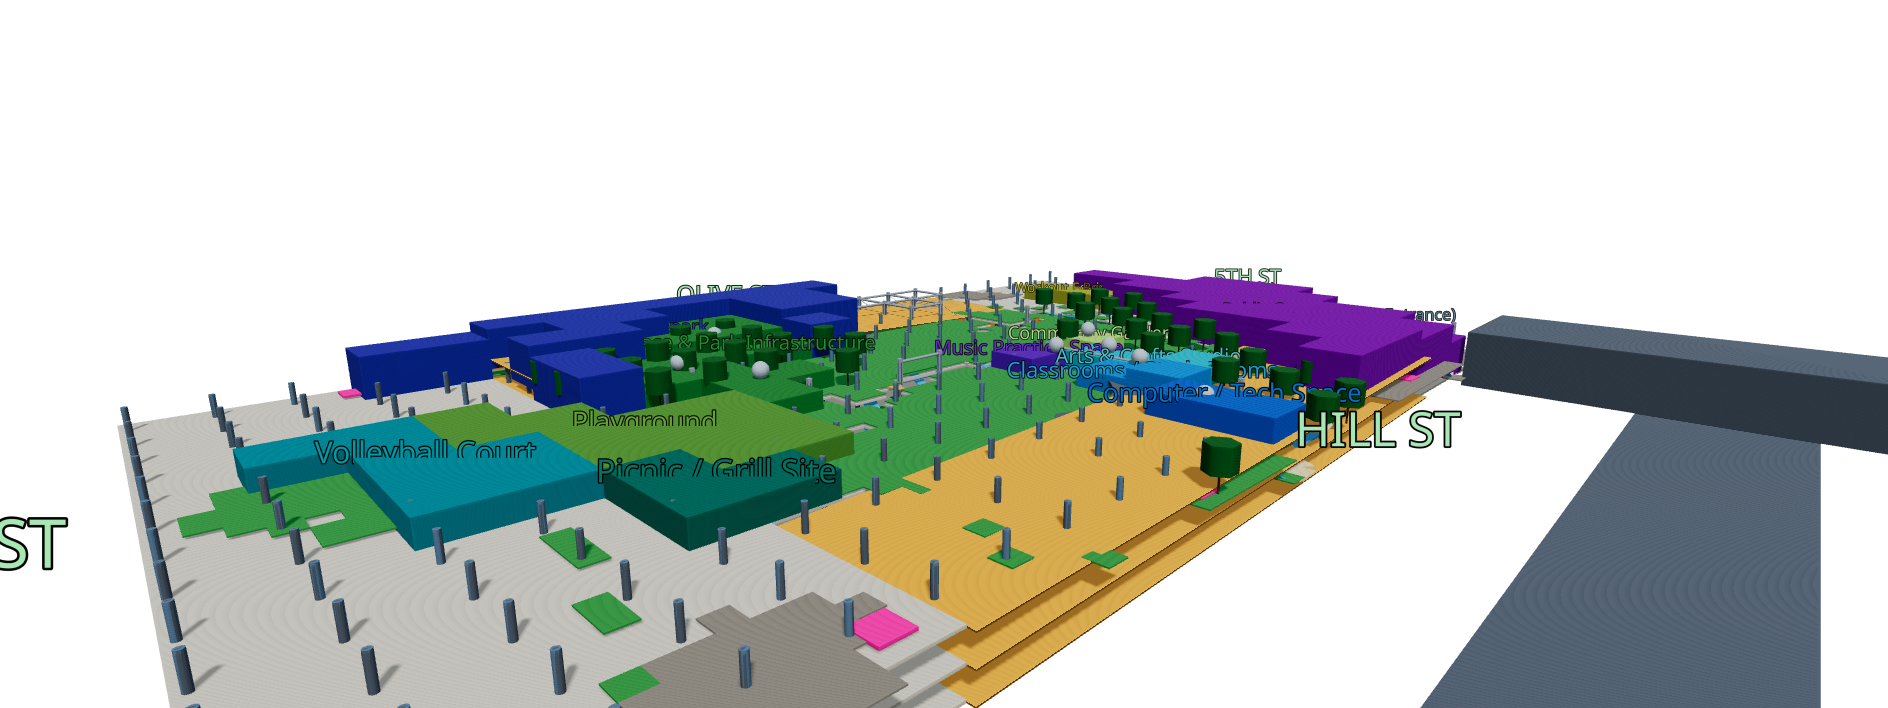
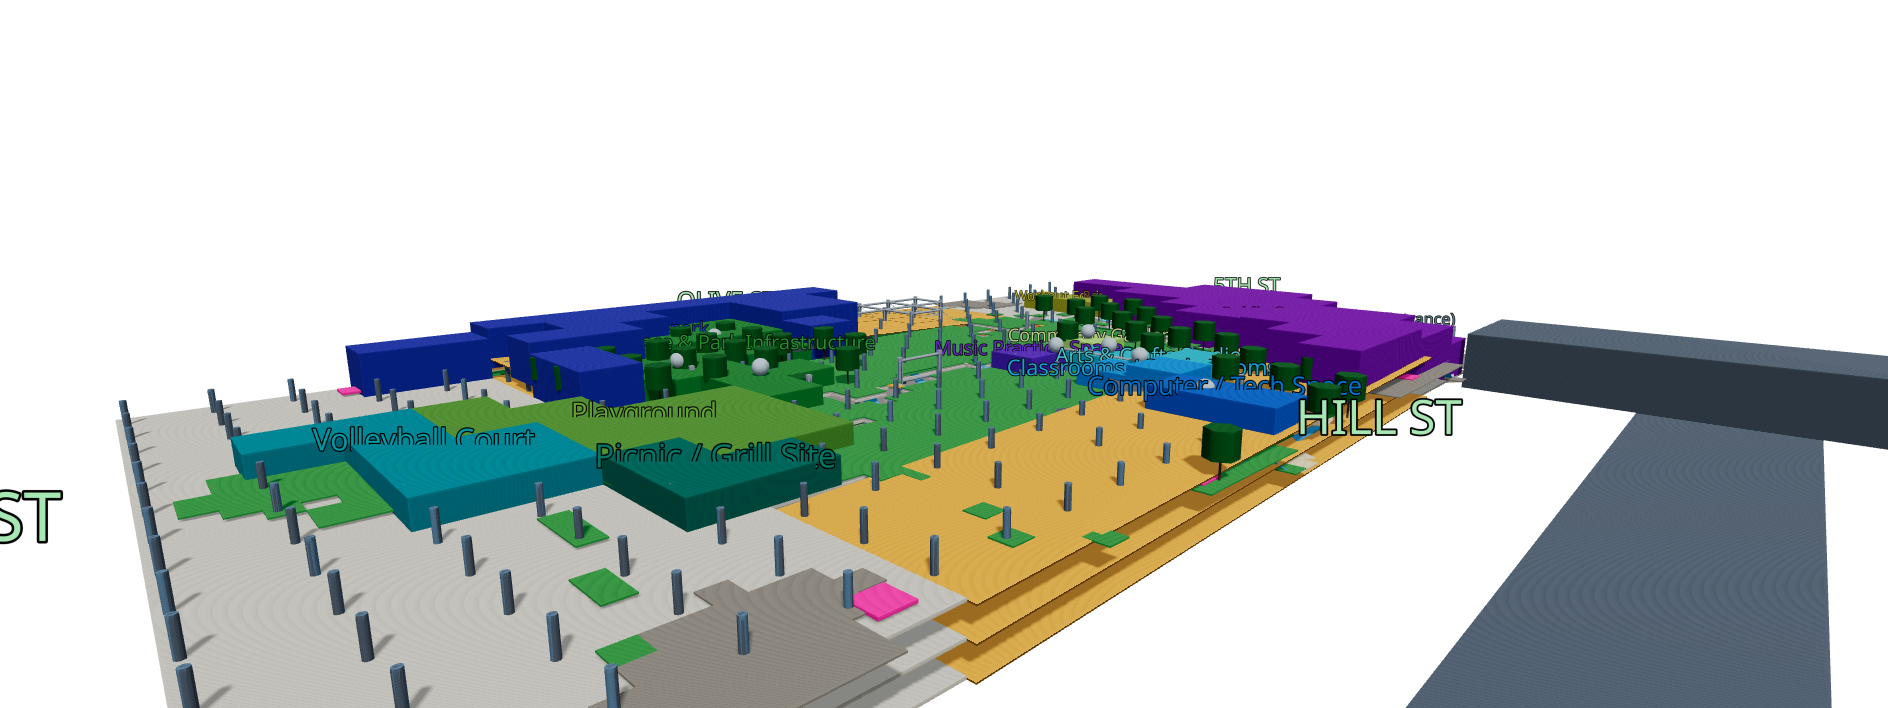
Swap generative-render slide to FLUX.2 output
Flux.1's renders were reported too loose/uncanny for the project;
the pipeline (feature/blender-mcp-pipeline) now runs FLUX.2 Klein 9B
instead, producing much more grounded, structurally faithful results
(matching terracing, bollard pattern, and site geometry precisely).
Updates the pipeline description and image alt text to match; same
prompt as before, so the caption text is unchanged.

diff --git a/html/final_deck.html b/html/final_deck.html
@@ -816,7 +816,7 @@
                 <div style="display:flex; flex:1; min-height:0;">
             <div class="col" style="padding-top:28px;">
                 <h2>Depth-Guided Render Pipeline</h2>
-                <p style="margin-bottom: 14px;">From inside the live 3D reconstruction, orbit and zoom into any part of the massing in perspective view, then capture that exact camera's true depth pass and route it through a local ComfyUI Flux depth-LoRA workflow for a structurally-faithful, photoreal render — closing the loop between procedural generation and generative visualization.</p>
+                <p style="margin-bottom: 14px;">From inside the live 3D reconstruction, orbit and zoom into any part of the massing in perspective view, then capture that exact camera's true depth pass and route it through a local ComfyUI FLUX.2 workflow for a structurally-faithful, photoreal render — closing the loop between procedural generation and generative visualization.</p>
                 <div class="rule" style="margin:10px 0;"></div>
                 <div class="vignette" style="margin-bottom:10px;">
                     <strong>PIPELINE</strong><br>
@@ -831,7 +831,7 @@
                     <img class="cf-source" src="../archive/render_output/PershingSquare/comfyPipelineDemo_sourceCapture.png"
                          alt="Raw perspective-view capture of the Pershing Square reconstruction, before rendering">
                     <img class="cf-rendered" src="../archive/render_output/PershingSquare/comfyPipelineDemo_perspectiveCapture.png"
-                         alt="ComfyUI Flux depth-LoRA render generated from that same captured perspective view">
+                         alt="ComfyUI FLUX.2 render generated from that same captured perspective view">
                 </div>
                 <div class="quote" style="width:100%; margin-top:14px; margin-bottom:0; flex-shrink:0;">
                     <div class="quote-source" style="margin-bottom:4px;">Prompt Used</div>
